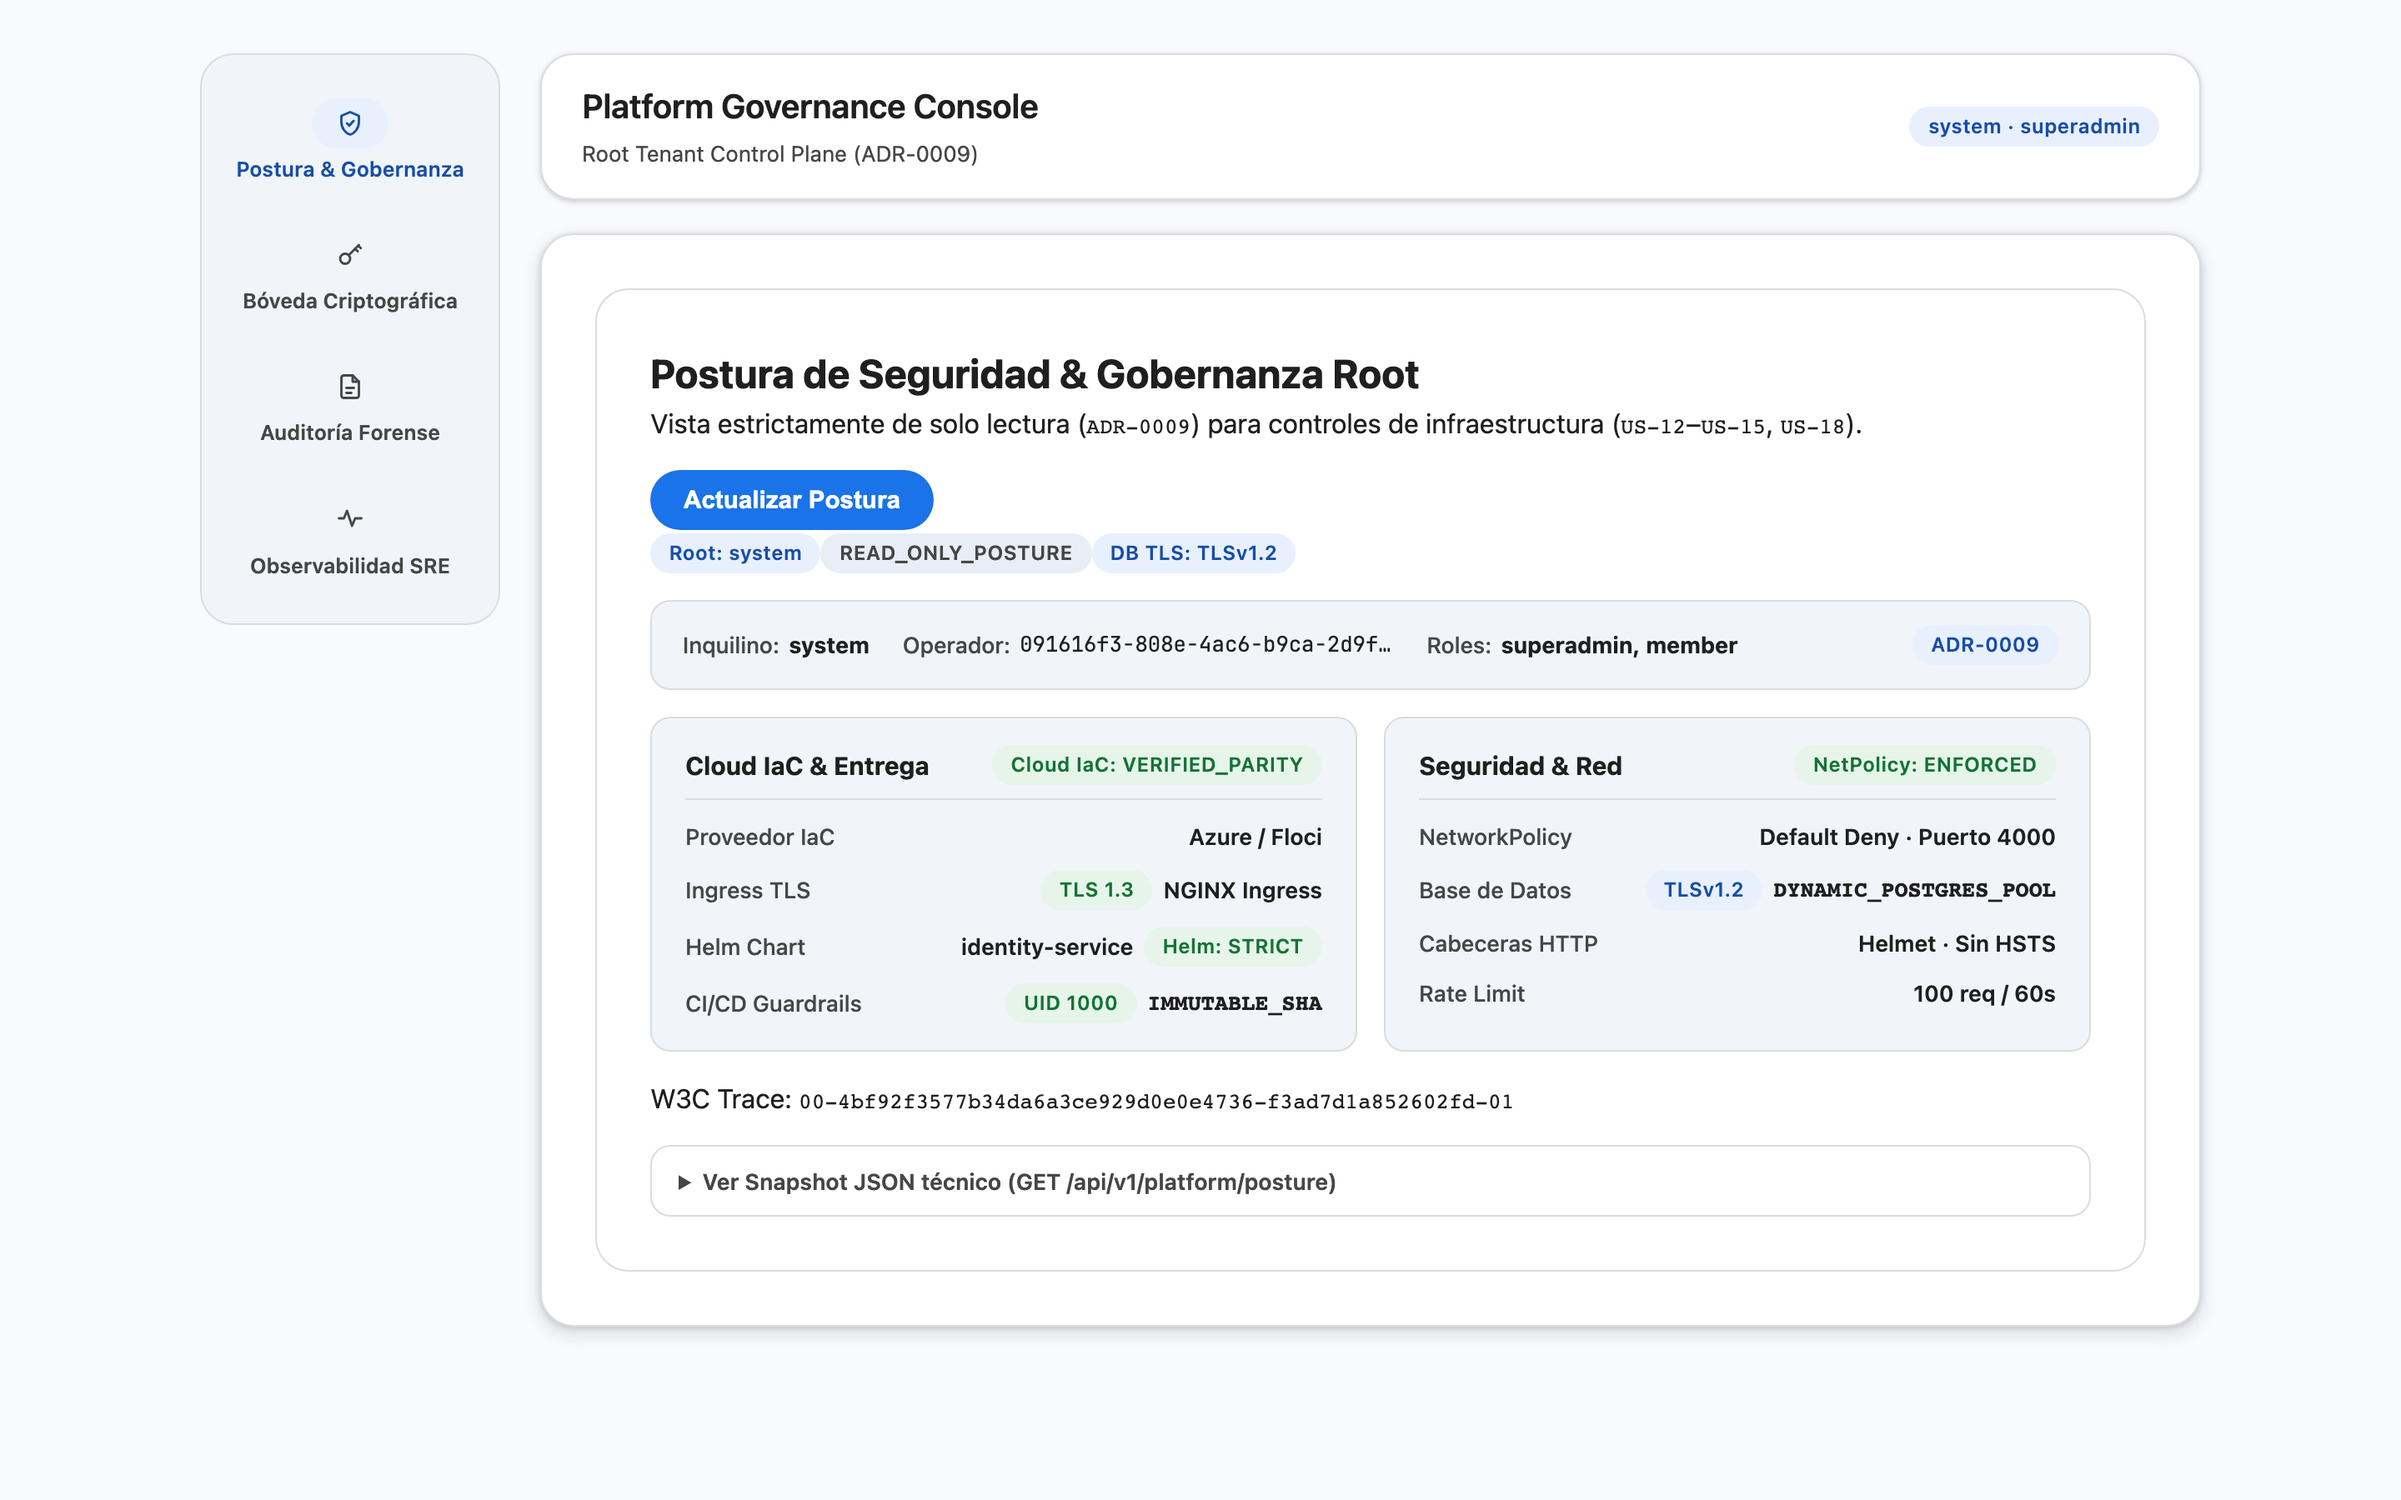
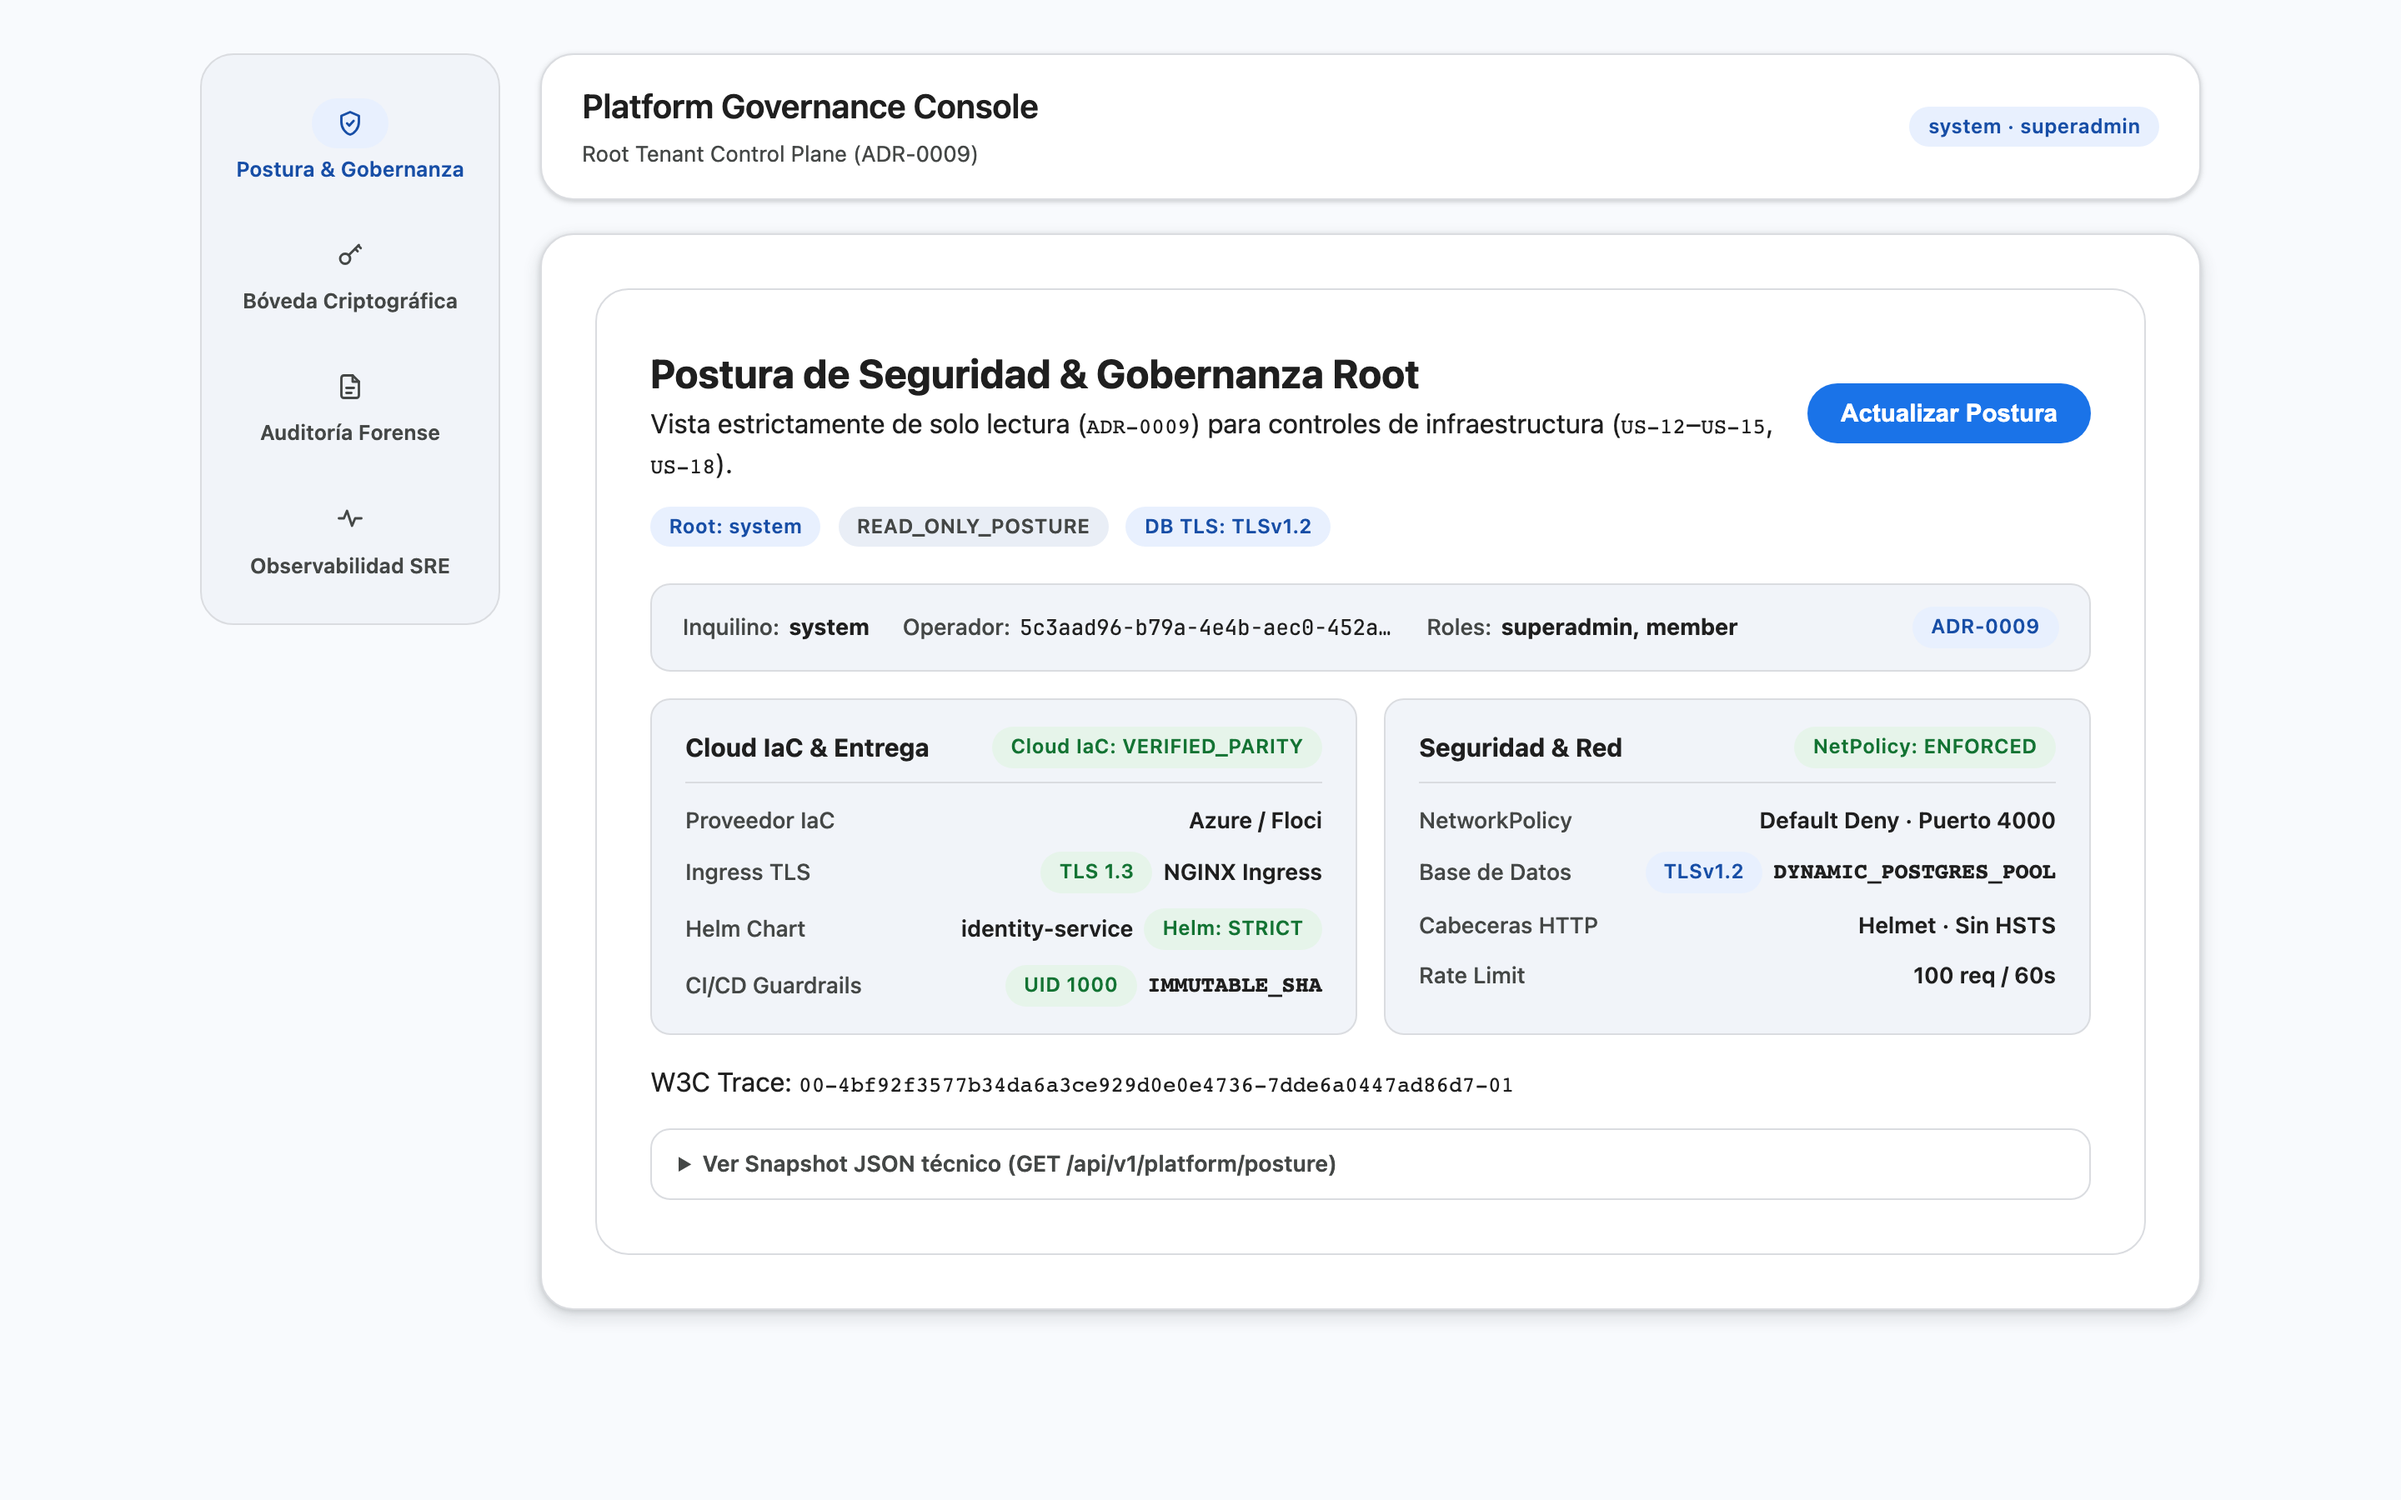
style(ui): right-align toolbar button and add breathing room around chips

diff --git a/interfaces/web/client/styles.css b/interfaces/web/client/styles.css
@@ -268,9 +268,27 @@ body {
 .m3-toolbar {
   display: flex;
   justify-content: space-between;
-  align-items: flex-start;
-  gap: 1rem;
+  align-items: center;
+  gap: 1.25rem;
   flex-wrap: wrap;
+  margin-bottom: 0.5rem;
+}
+
+.m3-toolbar > :first-child {
+  flex: 1 1 260px;
+  min-width: 0;
+}
+
+.m3-toolbar > .m3-btn {
+  flex-shrink: 0;
+}
+
+.m3-chip-row {
+  display: flex;
+  flex-wrap: wrap;
+  align-items: center;
+  gap: 0.65rem;
+  padding: 0.35rem 0;
 }
 
 .m3-posture-grid {
